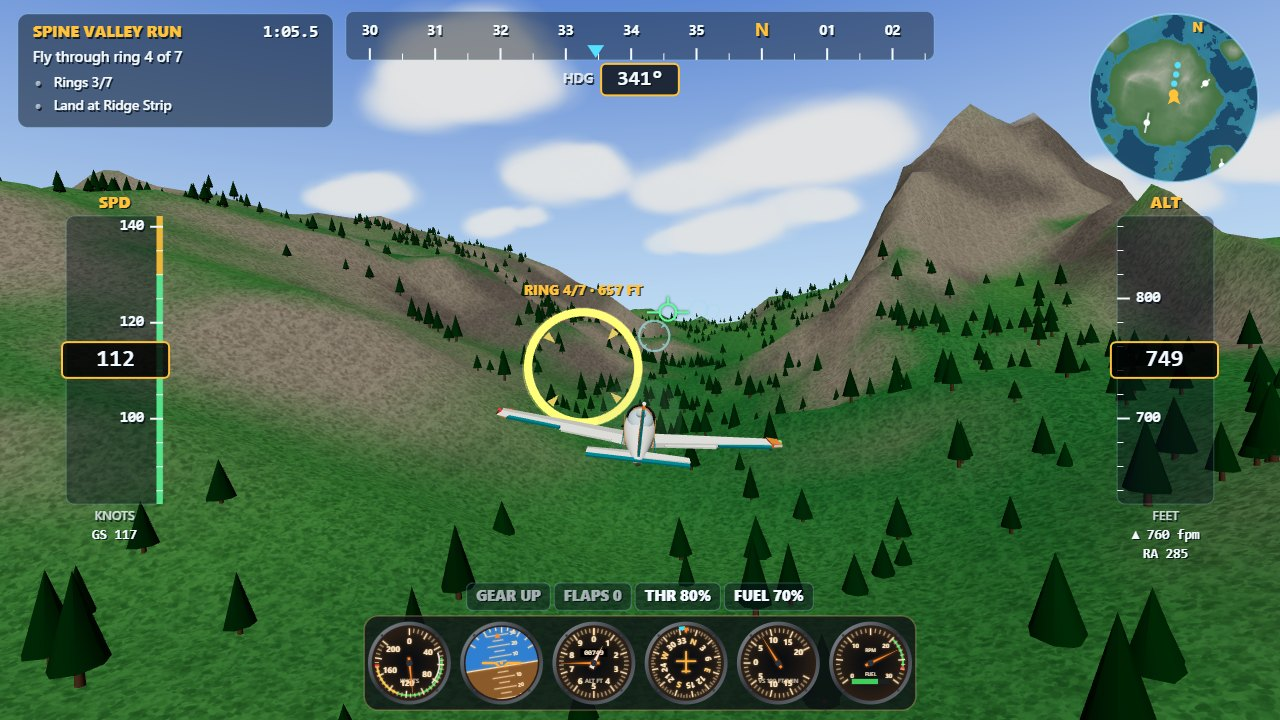
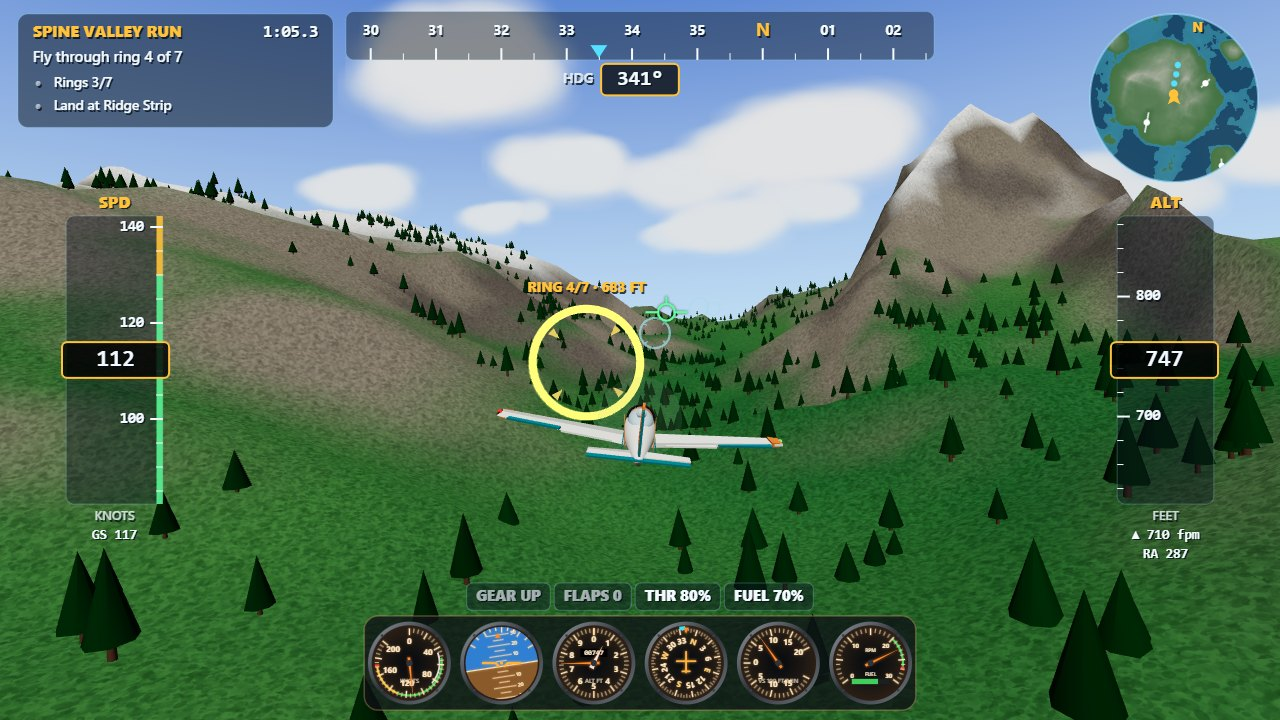
Rebuild the cockpit panel, add snow caps, calm distant sea ripples, new cover shot

diff --git a/game/src/cockpit.js b/game/src/cockpit.js
@@ -1,6 +1,6 @@
 // The pilot's seat: dashboard with a live instrument panel, glareshield, canopy frame and stick.
 import * as THREE from 'three';
-import { drawSixPack } from './instruments.js';
+import { airspeedGauge, attitudeGauge, altimeterGauge, headingGauge, vsiGauge, engineGauge } from './instruments.js';
 import { FUSELAGE_PROFILE } from './aircraft.js';
 
 export class Cockpit {
@@ -9,37 +9,40 @@ export class Cockpit {
     this.group.visible = false;
     aircraft.root.add(this.group);
     this.canvas = document.createElement('canvas');
-    this.canvas.width = 1280; this.canvas.height = 340;
+    this.canvas.width = 1280; this.canvas.height = 640;
+    this.plate = paintPlate(1280, 640);
     this.g = this.canvas.getContext('2d');
     this.tex = new THREE.CanvasTexture(this.canvas);
     this.tex.colorSpace = THREE.SRGBColorSpace;
     this.tex.anisotropy = 4;
 
-    const dark = new THREE.MeshLambertMaterial({ color: 0x3a3f46, emissive: 0x15181c });
-    const trim = new THREE.MeshLambertMaterial({ color: 0x15171a });
+    const dark = new THREE.MeshLambertMaterial({ color: 0x4b5058, emissive: 0x23262b });
+    const trim = new THREE.MeshLambertMaterial({ color: 0x2a2d32, emissive: 0x101214 });
+    const wallMat = new THREE.MeshBasicMaterial({ color: 0x3a3f47 });
+    const sillMat = new THREE.MeshBasicMaterial({ color: 0x23262b });
     const frameMat = new THREE.MeshLambertMaterial({ color: 0x5a6068 });
     // the nose ahead of the windscreen, seen over the glareshield
     const nosePts = [[0.69, 0.95], ...FUSELAGE_PROFILE.filter(([, y]) => y > 0.95)].map(([r, y]) => new THREE.Vector2(r, y));
     const noseGeo = new THREE.LatheGeometry(nosePts, 24);
     noseGeo.rotateX(-Math.PI / 2); noseGeo.scale(0.92, 1, 1);
     this.group.add(new THREE.Mesh(noseGeo, new THREE.MeshStandardMaterial({ color: 0xf1ece0, roughness: 0.5, metalness: 0.15 })));
-    const panel = new THREE.Mesh(new THREE.PlaneGeometry(1.26, 0.335), new THREE.MeshBasicMaterial({ map: this.tex }));
-    panel.position.set(0, 0.47, -0.74);
+    const panel = new THREE.Mesh(new THREE.PlaneGeometry(1.12, 0.56), new THREE.MeshBasicMaterial({ map: this.tex }));
+    panel.position.set(0, 0.368, -0.74);
     panel.rotation.x = -0.12;
-    const backing = new THREE.Mesh(new THREE.BoxGeometry(1.36, 0.44, 0.06), dark);
-    backing.position.set(0, 0.46, -0.78); backing.rotation.x = -0.12;
-    const glare = new THREE.Mesh(new THREE.BoxGeometry(1.4, 0.05, 0.32), trim);
-    glare.position.set(0, 0.64, -0.86);
+    const backing = new THREE.Mesh(new THREE.BoxGeometry(1.4, 0.8, 0.06), wallMat);
+    backing.position.set(0, 0.32, -0.78); backing.rotation.x = -0.12;
+    const glare = new THREE.Mesh(new THREE.BoxGeometry(1.4, 0.05, 0.32), sillMat);
+    glare.position.set(0, 0.675, -0.86);
     const lip = new THREE.Mesh(new THREE.CylinderGeometry(0.025, 0.025, 1.4, 8), trim);
-    lip.rotation.z = Math.PI / 2; lip.position.set(0, 0.655, -0.71);
+    lip.rotation.z = Math.PI / 2; lip.position.set(0, 0.675, -0.71);
     // sidewalls and the floor of the cockpit tub
     const wallGeo = new THREE.PlaneGeometry(1.8, 0.7);
     for (const side of [-1, 1]) {
-      const wall = new THREE.Mesh(wallGeo, dark);
-      wall.position.set(side * 0.58, 0.28, -0.1);
+      const wall = new THREE.Mesh(wallGeo, wallMat);
+      wall.position.set(side * 0.58, 0.2, -0.1);
       wall.rotation.y = -side * Math.PI / 2;
-      const sill = new THREE.Mesh(new THREE.BoxGeometry(0.08, 0.06, 1.8), trim);
-      sill.position.set(side * 0.56, 0.6, -0.1);
+      const sill = new THREE.Mesh(new THREE.BoxGeometry(0.08, 0.05, 1.8), sillMat);
+      sill.position.set(side * 0.58, 0.55, -0.1);
       // canopy frame: windscreen pillar and the bow behind the head
       const pillar = new THREE.Mesh(new THREE.CylinderGeometry(0.009, 0.011, 0.62, 6), frameMat);
       pillar.position.set(side * 0.42, 0.88, -0.66);
@@ -50,12 +53,12 @@ export class Cockpit {
     floor.rotation.x = -Math.PI / 2; floor.position.set(0, -0.05, -0.1);
     // control stick
     this.stick = new THREE.Group();
-    const shaft = new THREE.Mesh(new THREE.CylinderGeometry(0.015, 0.02, 0.42, 8), new THREE.MeshLambertMaterial({ color: 0x555b62 }));
-    shaft.position.y = 0.21;
+    const shaft = new THREE.Mesh(new THREE.CylinderGeometry(0.015, 0.02, 0.3, 8), new THREE.MeshLambertMaterial({ color: 0x555b62 }));
+    shaft.position.y = 0.15;
     const grip = new THREE.Mesh(new THREE.CylinderGeometry(0.028, 0.03, 0.11, 10), trim);
-    grip.position.y = 0.45;
+    grip.position.y = 0.33;
     this.stick.add(shaft, grip);
-    this.stick.position.set(0, -0.02, -0.25);
+    this.stick.position.set(0, -0.02, -0.5);
     // throttle quadrant with an orange knob
     this.lever = new THREE.Group();
     const lshaft = new THREE.Mesh(new THREE.BoxGeometry(0.015, 0.015, 0.16), new THREE.MeshLambertMaterial({ color: 0x666c73 }));
@@ -63,7 +66,7 @@ export class Cockpit {
     const knob = new THREE.Mesh(new THREE.SphereGeometry(0.025, 8, 6), new THREE.MeshLambertMaterial({ color: 0xff7a1a }));
     knob.position.z = -0.16;
     this.lever.add(lshaft, knob);
-    this.lever.position.set(-0.5, 0.3, -0.32);
+    this.lever.position.set(0.3, 0.1, -0.56);
     this.group.add(panel, backing, glare, lip, floor, this.stick, this.lever);
     this.hideInCockpit = [aircraft.canopy];
     this.eye = new THREE.Vector3(0, 0.86, 0.12);
@@ -85,24 +88,102 @@ export class Cockpit {
   /** Redraws the panel instruments and moves the stick and throttle. */
   update(state, controls) {
     const g = this.g, W = this.canvas.width, H = this.canvas.height;
-    const bg = g.createLinearGradient(0, 0, 0, H);
-    bg.addColorStop(0, '#3a3f46'); bg.addColorStop(1, '#22262b');
-    g.fillStyle = bg; g.fillRect(0, 0, W, H);
-    g.fillStyle = 'rgba(255,255,255,0.04)';
-    for (let x = 0; x < W; x += 6) g.fillRect(x, 0, 1, H);
-    const r = 82;
-    drawSixPack(g, 112, H / 2 + 6, r, state);
-    // annunciators
-    const lamps = [['GEAR', state.gearDown ? '#3fcf5a' : (state.gearMoving ? '#f2c230' : '#30343a')], ['FLAPS ' + state.flaps, state.flaps ? '#39e1ff' : '#30343a'], ['STALL', state.stall ? '#ff3b30' : '#30343a'], ['FUEL', state.fuel < 0.15 ? '#ff3b30' : '#30343a'], ['BRK', state.brake ? '#f2c230' : '#30343a']];
-    g.font = '700 15px "Segoe UI", system-ui, sans-serif'; g.textAlign = 'center'; g.textBaseline = 'middle';
+    g.drawImage(this.plate, 0, 0);
+    const r = 104, cx = W / 2, gap = 236, y1 = 176, y2 = 412;
+    airspeedGauge(g, cx - gap, y1, r, state.kt);
+    attitudeGauge(g, cx, y1, r, state.pitch, state.bank);
+    altimeterGauge(g, cx + gap, y1, r, state.ft);
+    engineGauge(g, cx - gap, y2, r, state.rpm, state.fuel, state.blink);
+    headingGauge(g, cx, y2, r, state.hdg, state.bug);
+    vsiGauge(g, cx + gap, y2, r, state.fpm);
+    // annunciator lamps along the top of the panel
+    const lamps = [['GEAR', state.gearDown ? '#3fcf5a' : (state.gearMoving ? '#f2c230' : OFF)], ['FLAPS ' + state.flaps, state.flaps ? '#39e1ff' : OFF], ['STALL', state.stall ? '#ff3b30' : OFF], ['FUEL', state.fuel < 0.15 ? '#ff3b30' : OFF], ['BRK', state.brake ? '#f2c230' : OFF]];
+    g.font = '700 17px "Segoe UI", system-ui, sans-serif'; g.textAlign = 'center'; g.textBaseline = 'middle';
     lamps.forEach(([t, c], i) => {
-      const x = 330 + i * 150, y = 18;
-      g.fillStyle = c; g.fillRect(x - 55, y - 11, 110, 22);
-      g.fillStyle = c === '#30343a' ? '#6a6f76' : '#0b0d10'; g.fillText(t, x, y + 1);
+      const x = cx - 280 + i * 140, y = 30;
+      g.fillStyle = c; g.fillRect(x - 60, y - 14, 120, 28);
+      g.fillStyle = c === OFF ? '#6a6f76' : '#0b0d10'; g.fillText(t, x, y + 1);
     });
+    // live readouts: radio stack digits, flap and throttle markers, fuel bar
+    g.font = '700 30px Consolas, "Courier New", monospace'; g.textAlign = 'right';
+    g.fillStyle = '#ffb347';
+    g.fillText(String(Math.round(state.hdg) % 360).padStart(3, '0'), 1236, 290);
+    g.fillText(String(Math.max(0, Math.round(state.ft))), 1236, 368);
+    g.fillStyle = '#39e1ff';
+    g.fillRect(64, 120 + state.flaps * 44, 46, 10);
+    g.fillStyle = '#ff7a1a';
+    g.fillRect(170, 226 - controls.throttle * 112, 46, 12);
+    g.fillStyle = state.fuel < 0.15 ? '#ff3b30' : '#3fcf5a';
+    g.fillRect(48, 304, 172 * Math.max(0, Math.min(1, state.fuel)), 16);
     this.tex.needsUpdate = true;
     this.stick.rotation.x = -controls.pitch * 0.3;
     this.stick.rotation.z = -controls.roll * 0.3;
-    this.lever.position.z = -0.32 - controls.throttle * 0.1;
+    this.lever.position.z = -0.56 - controls.throttle * 0.1;
   }
+}
+
+const OFF = '#30343a';
+
+/** Paints everything on the panel that never changes: plate, screws, switches, radio stack and placards. */
+function paintPlate(W, H) {
+  const c = document.createElement('canvas');
+  c.width = W; c.height = H;
+  const g = c.getContext('2d');
+  const bg = g.createLinearGradient(0, 0, 0, H);
+  bg.addColorStop(0, '#454b53'); bg.addColorStop(1, '#262a30');
+  g.fillStyle = bg; g.fillRect(0, 0, W, H);
+  g.fillStyle = 'rgba(255,255,255,0.035)';
+  for (let x = 0; x < W; x += 5) g.fillRect(x, 0, 1, H);
+  const inset = (x, y, w, h, fill = '#1c1f24') => {
+    g.fillStyle = 'rgba(0,0,0,0.5)'; g.fillRect(x - 3, y - 3, w + 6, h + 6);
+    g.fillStyle = fill; g.fillRect(x, y, w, h);
+    g.strokeStyle = 'rgba(255,255,255,0.12)'; g.lineWidth = 2; g.strokeRect(x, y, w, h);
+  };
+  const screw = (x, y) => {
+    g.fillStyle = '#8a9099'; g.beginPath(); g.arc(x, y, 6, 0, Math.PI * 2); g.fill();
+    g.strokeStyle = '#30343a'; g.lineWidth = 2; g.beginPath(); g.moveTo(x - 4, y - 2); g.lineTo(x + 4, y + 2); g.stroke();
+  };
+  const label = (t, x, y, size = 15, color = '#c9ced6') => {
+    g.font = `700 ${size}px "Segoe UI", system-ui, sans-serif`; g.textAlign = 'center'; g.textBaseline = 'middle';
+    g.fillStyle = color; g.fillText(t, x, y);
+  };
+  // centre plate that carries the six flight instruments
+  inset(266, 52, 748, 484, '#2b3037');
+  for (const [x, y] of [[280, 66], [1000, 66], [280, 522], [1000, 522], [640, 294]]) screw(x, y);
+  // left bay: flap and throttle strips, fuel bar, speed placard
+  inset(24, 52, 220, 484);
+  label('FLAPS', 87, 84); label('PWR', 193, 84);
+  inset(60, 106, 54, 130, '#0e1013');
+  ['UP', '1', '2'].forEach((t, i) => label(t, 136, 125 + i * 44, 14, '#8d949e'));
+  inset(166, 106, 54, 136, '#0e1013');
+  label('FUEL', 134, 282, 13, '#8d949e');
+  inset(44, 300, 180, 24, '#0e1013');
+  inset(44, 356, 180, 150, '#e9e2c8');
+  ['K-7 KESTREL', 'ROTATE 55 KT', 'APPROACH 65 KT', 'STALL 48 KT', 'VNE 170 KT'].forEach((t, i) => label(t, 134, 376 + i * 28, i ? 14 : 16, '#22262b'));
+  // right bay: radio stack
+  inset(1036, 52, 220, 484);
+  const radio = (y, name, value, color) => {
+    inset(1050, y, 192, 62, '#0b0d10');
+    label(name, 1088, y + 14, 13, '#8d949e');
+    g.font = '700 30px Consolas, "Courier New", monospace'; g.textAlign = 'right'; g.fillStyle = color;
+    if (value) g.fillText(value, 1236, y + 38);
+  };
+  radio(96, 'COM 1', '122.80', '#ffb347');
+  radio(174, 'NAV 1', '113.90', '#ffb347');
+  radio(252, 'HDG', '', '#ffb347');
+  radio(330, 'ALT FT', '', '#ffb347');
+  radio(408, 'XPDR', '1200', '#3fcf5a');
+  label('K7-ISL', 1146, 504, 18, '#e8ecf2');
+  label('AVIONICS', 1146, 74, 13, '#8d949e');
+  // toggle row along the bottom
+  inset(24, 552, 1232, 76);
+  ['MASTER', 'AVIONICS', 'FUEL PUMP', 'PITOT HT', 'NAV LT', 'STROBE', 'LAND LT', 'PANEL LT'].forEach((t, i) => {
+    const x = 108 + i * 152, on = i !== 3;
+    g.fillStyle = '#0e1013'; g.beginPath(); g.arc(x, 580, 13, 0, Math.PI * 2); g.fill();
+    g.strokeStyle = '#c9ced6'; g.lineWidth = 7; g.lineCap = 'round';
+    g.beginPath(); g.moveTo(x, 580); g.lineTo(x, 580 + (on ? -15 : 13)); g.stroke();
+    g.fillStyle = on ? '#3fcf5a' : '#30343a'; g.fillRect(x + 24, 572, 10, 10);
+    label(t, x, 612, 13);
+  });
+  return c;
 }

diff --git a/game/src/terrain.js b/game/src/terrain.js
@@ -92,9 +92,9 @@ function colourFor(x, z, h, slope, out) {
     const cell = Math.abs(Math.sin(fx * 12.9898 + fz * 78.233) * 43758.5453) % 1;
     if (cell > 0.55) out.lerp(cell > 0.8 ? C.field : C.sand, 0.35);
   }
-  const rockiness = smoothstep(0.35, 0.75, slope) + smoothstep(380, 560, h) * 0.7;
+  const rockiness = smoothstep(0.35, 0.75, slope) + smoothstep(250, 400, h) * 0.7;
   out.lerp(n > 0.5 ? C.rock : C.rock2, clamp(rockiness, 0, 1));
-  out.lerp(C.snow, smoothstep(560 + n * 60, 690, h) * (1 - smoothstep(0.6, 1.0, slope)));
+  out.lerp(C.snow, smoothstep(330 + n * 70, 450 + n * 40, h) * (1 - smoothstep(0.75, 1.15, slope)));
   return out;
 }
 
@@ -230,7 +230,9 @@ export function buildSea() {
         vec2 p = vWorld.xz;
         float dx = wave(p, vec2(0.8, 0.6), 0.05, 1.3) * 0.5 + wave(p, vec2(-0.3, 0.95), 0.11, 2.1) * 0.3 + wave(p, vec2(0.95, -0.2), 0.23, 2.9) * 0.2;
         float dz = wave(p, vec2(0.6, -0.8), 0.07, 1.7) * 0.5 + wave(p, vec2(0.2, 0.98), 0.17, 2.4) * 0.3;
-        vec3 n = normalize(vec3(dx * 0.08, 1.0, dz * 0.08));
+        // flatten the ripples with distance so they do not alias into stripes near the horizon
+        float calm = 0.08 / (1.0 + distance(cameraPosition, vWorld) * 0.0022);
+        vec3 n = normalize(vec3(dx * calm, 1.0, dz * calm));
         vec3 view = normalize(cameraPosition - vWorld);
         float fres = pow(1.0 - max(dot(n, view), 0.0), 4.0);
         vec3 water = mix(uDeep, uShallow, smoothstep(0.15, 0.95, shallow)) * uLight;

diff --git a/game/src/shots.js b/game/src/shots.js
@@ -24,20 +24,22 @@ function placeOnApproach(game, fieldId, u, v, height, speed, pitch = -2) {
 const SETUPS = {
   approach(game) {
     game.launch('circuit');
-    skipTo(game, 1, 5, 171.4);
-    placeOnApproach(game, 'harbor', -1380, -3, 64, 36, -2);
+    const q = new URLSearchParams(location.search);
+    const u = Number(q.get('u') || -620), h = Number(q.get('h') || 34);
+    if (u > -1050) skipTo(game, 2, 0, 188.6); else skipTo(game, 1, 5, 171.4);
+    placeOnApproach(game, 'harbor', u, -3, h, 36, -2);
     Object.assign(game.input.controls, { throttle: 0.28, flaps: 2, gearDown: true, pitch: -0.35 });
     game.fm.gearDown = true; game.aircraft.gearT = 1;
     game.fm.fuel *= 0.78;
     game.setView('chase');
   },
   cockpit(game) {
-    game.launch('mail');
-    skipTo(game, 2, 0, 251.2);
-    placeOnApproach(game, 'light', -1150, 3, 46, 34, -4);
+    game.launch('circuit');
+    skipTo(game, 1, 5, 171.4);
+    placeOnApproach(game, 'harbor', -1420, 4, 70, 36, -3);
     Object.assign(game.input.controls, { throttle: 0.25, flaps: 2, gearDown: true, pitch: -0.35 });
     game.fm.gearDown = true; game.aircraft.gearT = 1;
-    game.fm.fuel *= 0.4;
+    game.fm.fuel *= 0.78;
     game.setView('cockpit');
   },
   valley(game) {

diff --git a/game/src/hud.js b/game/src/hud.js
@@ -330,7 +330,7 @@ export class Hud {
     if (!s.engineOn) items.push({ t: 'ENGINE OUT', c: WARN, blink: true });
     if (s.overspeed) items.push({ t: 'OVERSPEED', c: WARN, blink: true });
     if (s.pullUp) items.push({ t: 'PULL UP', c: WARN, blink: true });
-    const y = s.view === 'chase' && !compact && H > 520 ? H - Math.min(46 * k, W / 34) * 2.55 - 26 * k : H - 26 * k;
+    const y = s.view === 'chase' && !compact && H > 520 ? H - Math.min(46 * k, W / 34) * 2.55 - 26 * k : s.view === 'cockpit' && !compact ? 124 * k : H - 26 * k;
     const sz = (compact ? 11 : 14) * k;
     this.g.font = `800 ${sz}px ${FONT}`;
     const widths = items.map((i) => this.g.measureText(i.t).width + 22 * k);
